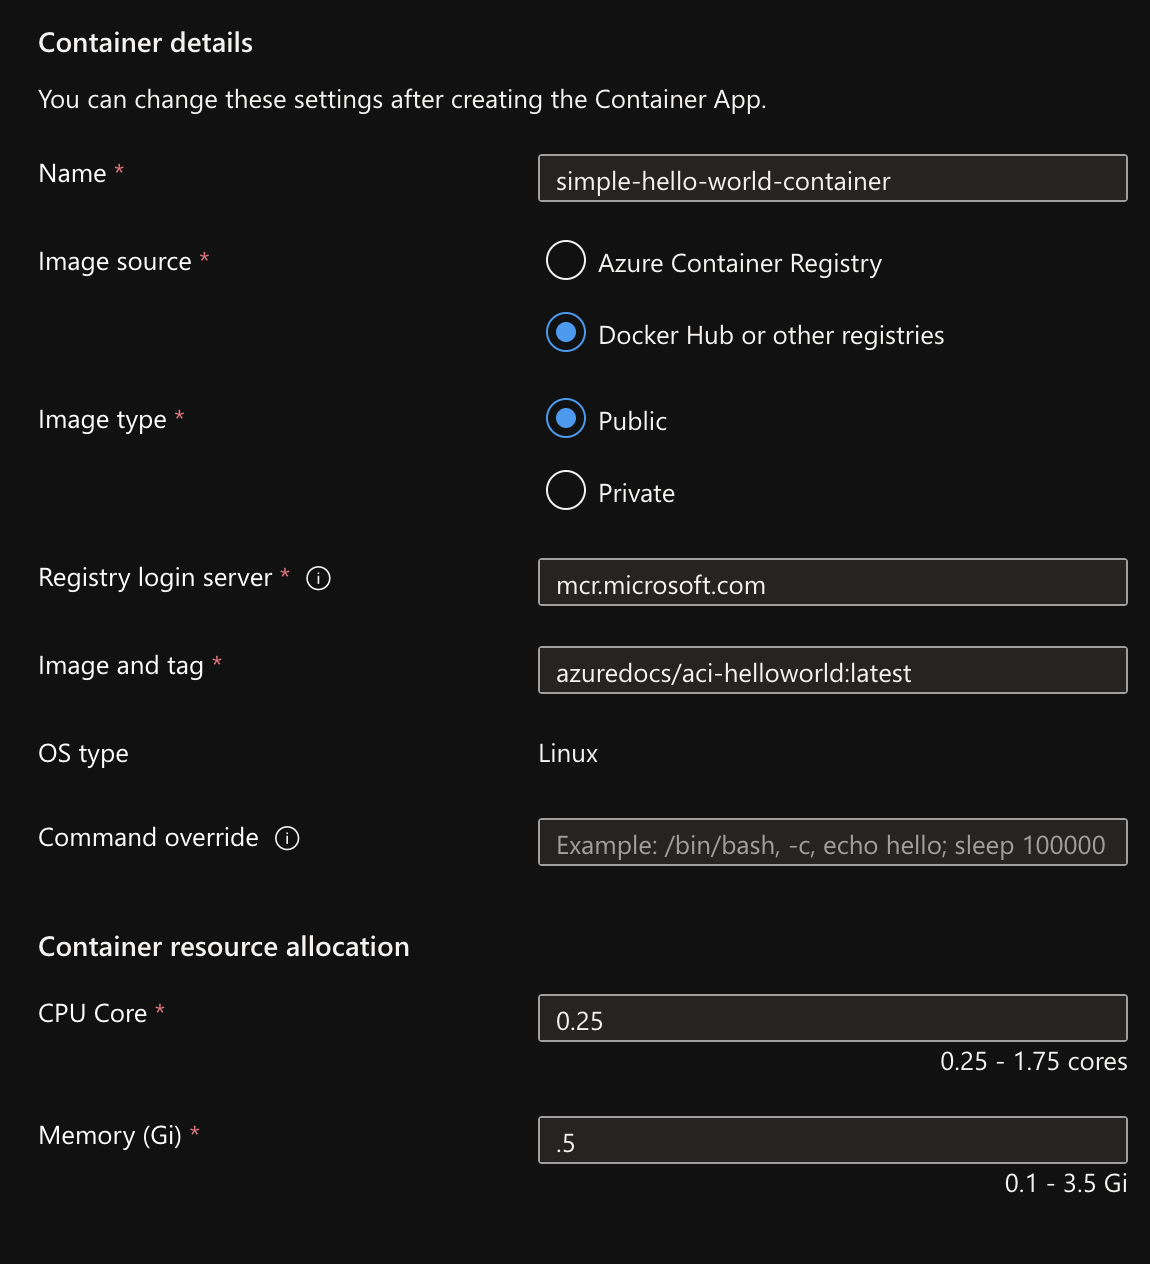
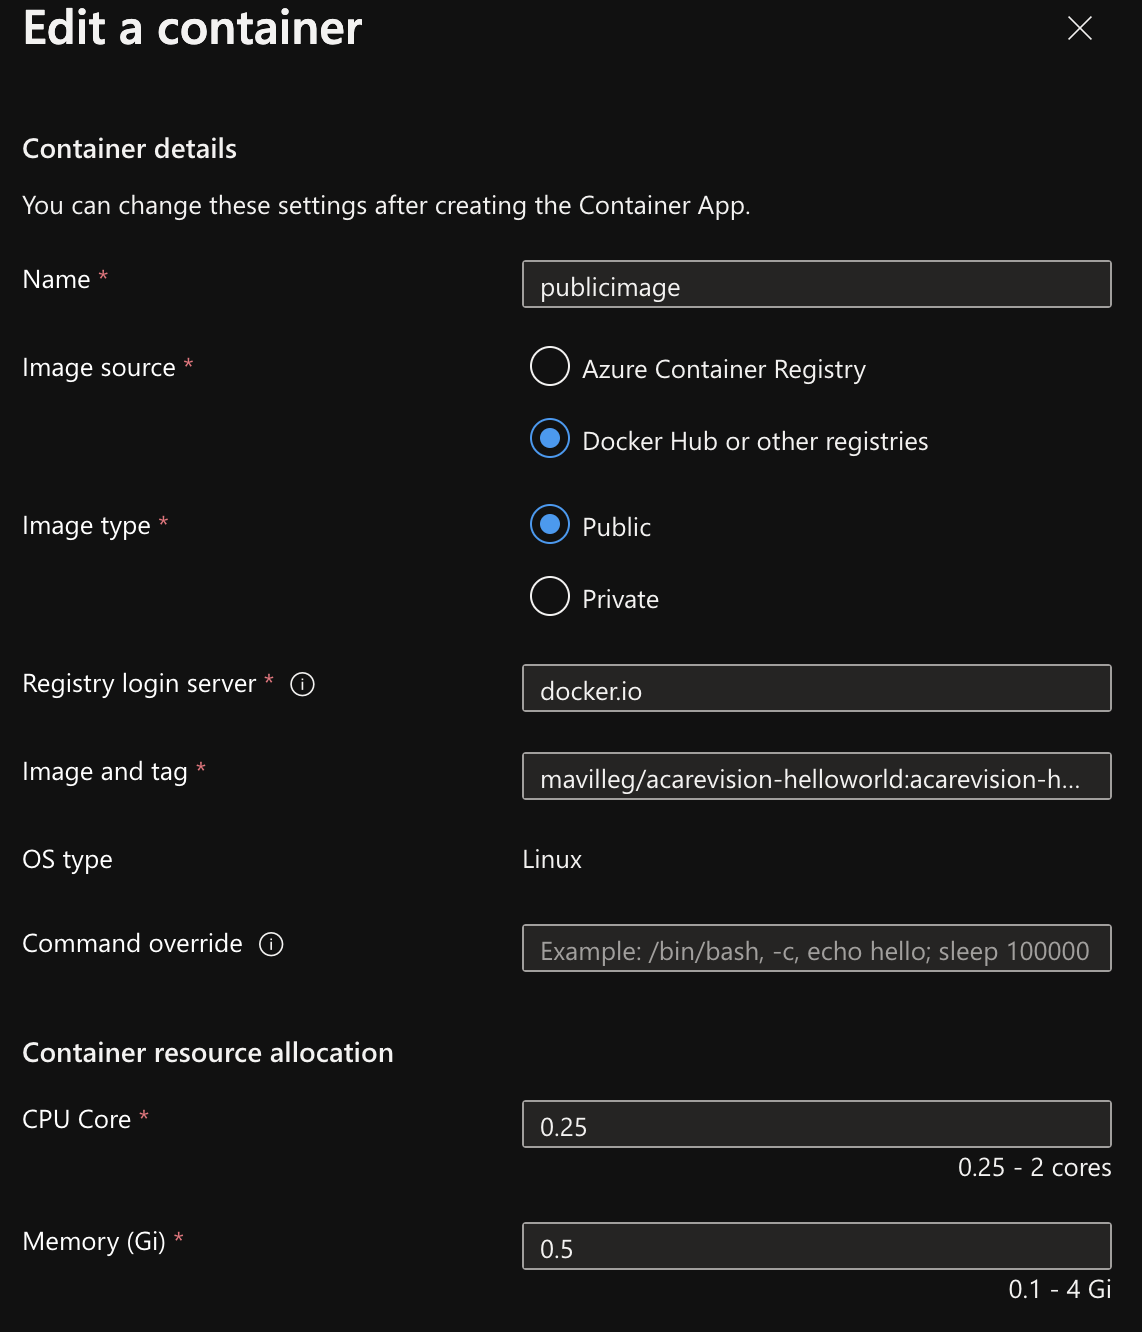
revisionend

diff --git a/_entries/02-04 createrevision.md b/_entries/02-04 createrevision.md
@@ -16,16 +16,15 @@ The following diagram shows a container app with two revisions.
 
 ![Revision App](/media/lab1/revisionpond.png)
 
+Note that changes made to a container app fall under one of two categories: revision-scope and application-scope changes: 
+- Revision-scope changes are any change that triggers a new revision (e.g Changes to containers, Add or update scaling rules, Changes to Dapr settings...), 
+- Application-scope changes don't create revisions (e.g Changes to traffic splitting rules, Turning ingress on or off, Changes to secret values...).
 
 ### Create your first revision
 
-Let's create and deploy a second version of the Hello World application with a different layout and split traffic between the two revisions. The first revision will be the one already created in the first steps. The second one will have to be pulled from `mcr.microsoft.com/azuredocs/aci-helloworld:latest`. 
+Let's create and deploy a new version of the Hello World application with a different layout. To do so you will have to deploy a new container within our application, meaning that we're doing a revision-scope change. This new version of our application can be found on docker hub `mavilleg/acarevision-helloworld:acarevision-hellowold`. 
 
-The scenario here above presumes the container app is in following state:
-- Ingress is enabled, which makes the container app available via HTTP.
-- The first revision is deployed as Revision 1.
-- After the container was updated, a new revision was activated as Revision 2.
-- Traffic splitting rules are configured so that Revision 1 receives 50% of the requests, while Revision 2 receives the remaining 50%.
+Once this new revision is provisionned we will configure an even split of the traffic between the two revision
 
 {% collapsible %}
 Go to the revisions management blade on the left inside of the apps panel. 
@@ -36,11 +35,15 @@ Click on "Create a new revisions"
 Then click on "Add" in order to pull the new image that will be used to create the new revision. 
 
 ![Revision soluce](/media/lab1/addrevision1.png)
-{% endcollapsible %}
 
-Now that you have two differents revision running you can configure the traffic splitting rules and test that you have both application running under the same endpoint. 
+Finally, you can loadbalance the traffic by modifying the traffic paramater under the Revision management panel.  
+{% endcollapsible %}
 
 Note that new revisions remain active until you deactivate them, or you set your container app to automatically deactivate old revisions.
 - Inactive revisions remain as a snapshot record of your container app in a certain state.
 - You are not charged for inactive revisions.
 - Up to 100 revisions remain available before being purged.
+
+That's how you can configure revision to be able to have A/B testing scenario or blue-green deployment scenario.  
+
+
